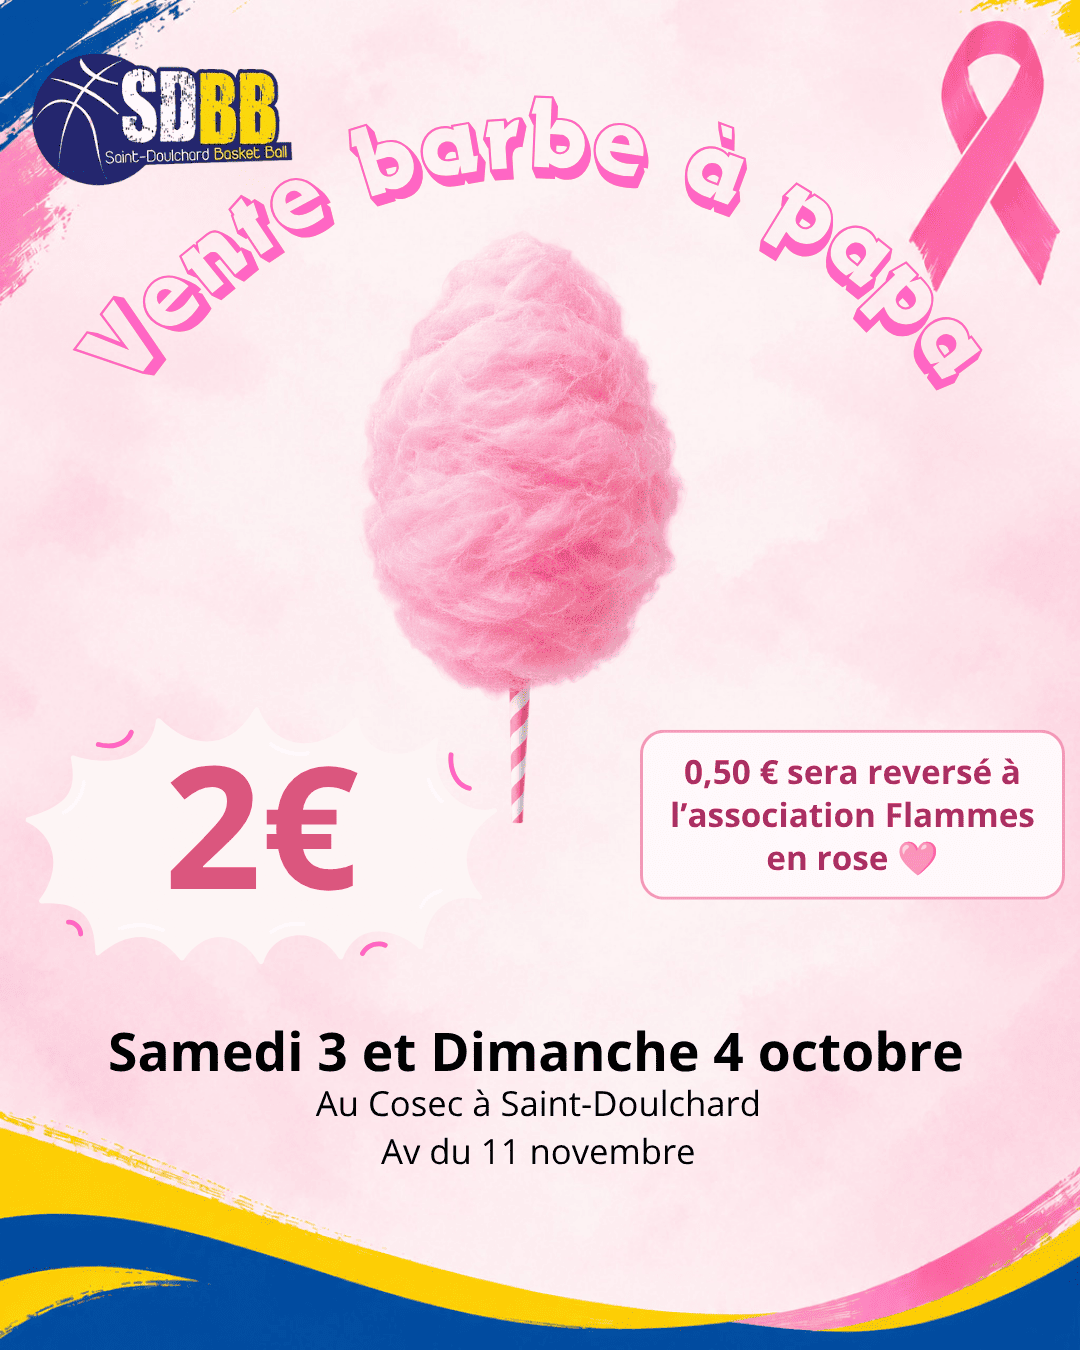
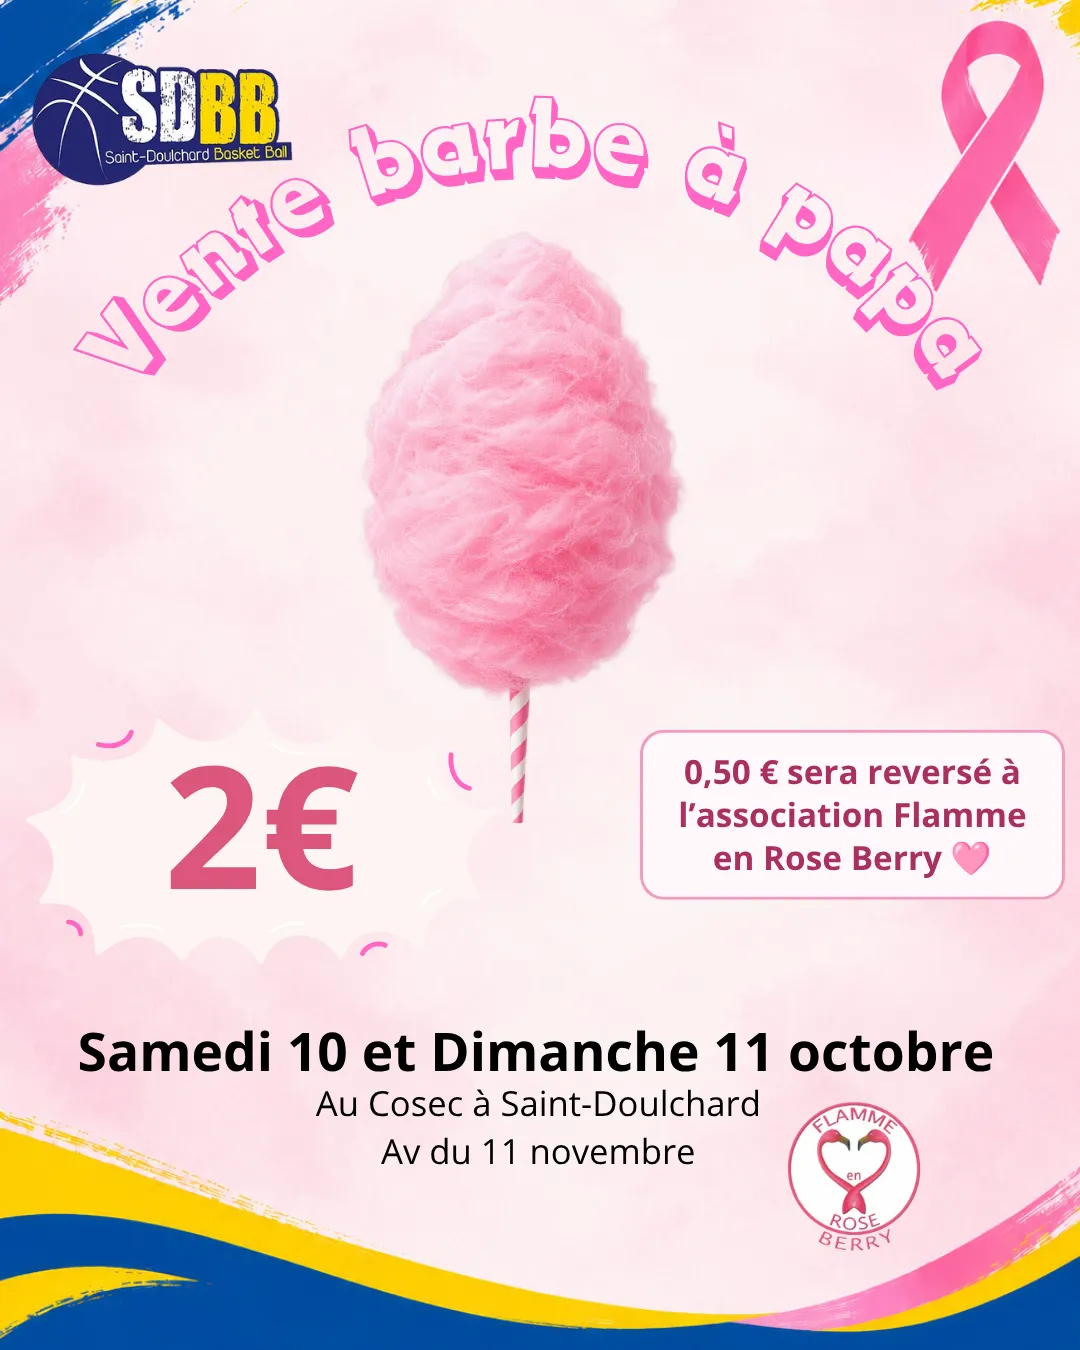
New event'

diff --git a/index.html b/index.html
@@ -141,15 +141,16 @@
                     <div class="news-slide" data-news-slide>
                         <img src="evenement/Octobre2eme.png" alt="Permanance" width="1100" height="1375" loading="lazy">
                     </div>
-                    <div class="news-slide" data-news-slide>
-                        <img src="evenement/Marche-emilie.jpg" alt="Permanance" width="1100" height="1375" loading="lazy">
-                    </div>
+                   
                     <div class="news-slide" data-news-slide>
                         <img src="evenement/TOURNOI-OCTOBRE-ROSE.jpg" alt="Permanance" width="1100" height="1375" loading="lazy">
                     </div>
                     
                     <div class="news-slide" data-news-slide>
                         <img src="Actualité/ECOLE-ARBITRAGE.png" alt="Permanance" width="1100" height="1375" loading="lazy">
+                    </div>
+                    <div class="news-slide" data-news-slide>
+                        <img src="Actualité/Vente-barbe-à-papa.webp" alt="Permanance" width="1100" height="1375" loading="lazy">
                     </div>
                 </div>
 
@@ -163,6 +164,7 @@
                     <button class="news-dot" type="button" data-news-dot aria-label="Aller au slide 4"></button>
                     <button class="news-dot" type="button" data-news-dot aria-label="Aller au slide 5"></button>
                     <button class="news-dot" type="button" data-news-dot aria-label="Aller au slide 6"></button>
+                 
                     
                     
 
@@ -388,7 +390,7 @@
             <button id="welcome-popup-close" class="welcome-popup-close" aria-label="Fermer">
                 <i class="fas fa-times"></i>
             </button>
-            <img src="Actualité/TOURNOI-OCTOBRE-ROSE.webp" alt="Vente-barbe-à-papa" class="welcome-popup-img" width="1100" height="1375" fetchpriority="high">
+            <img src="Actualité/Vente-barbe-à-papa.webp" alt="Vente-barbe-à-papa" class="welcome-popup-img" width="1100" height="1375" fetchpriority="high">
         </div>
     </div>
 

diff --git a/evenements.html b/evenements.html
@@ -105,6 +105,17 @@
 
                 <div class="card animate-on-scroll delay-100" data-date="2026-10-03T09:30">
                     <button class="card-img event-thumb" type="button" data-event-img="evenement/Marche-emilie.jpg" aria-label="Voir l'affiche Basket d'or et Panier d'or">
+                        <img src="Actualité/Vente-barbe-à-papa.webp" alt="Info Rentrée">
+                    </button>
+                    <div class="card-content">
+                        <span style="color: #0033a0; font-weight:bold; font-size:0.9rem;">SAMEDI 10 & DIMANCHE 11 OCTOBRE</span>
+                        <h3>VENTE DE BARBE A PAPA</h3>
+                        <p></p>Le SDBB organise une vente de barbes à papa au profit de l'association Flammes en Rose.</p>
+                    </div>
+                </div>
+
+                <div class="card animate-on-scroll delay-100" data-date="2026-10-03T09:30">
+                    <button class="card-img event-thumb" type="button" data-event-img="evenement/Marche-emilie.jpg" aria-label="Voir l'affiche Basket d'or et Panier d'or">
                         <img src="evenement/Marche-emilie.jpg" alt="Info Rentrée">
                     </button>
                     <div class="card-content">
